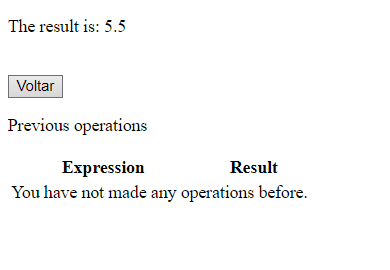
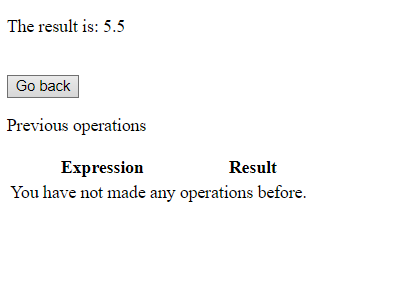
Readme assets and result label fix

Changed region(s): [[0.0308, 0.5333, 0.8, 0.7407], [0.0, 0.237, 0.4, 0.5037], [0.0, 0.0593, 0.3385, 0.1185]]

diff --git a/JavaWebApplication/src/main/resources/templates/result.html b/JavaWebApplication/src/main/resources/templates/result.html
@@ -10,7 +10,7 @@
 		<form action="/" method="get">
 			<p th:text="'The result is: ' + ${result}"/>
 			<br/>
-			<input type="submit" value="Voltar" />
+			<input type="submit" value="Go back" />
 			
 			<p>Previous operations</p>
         	<table>
